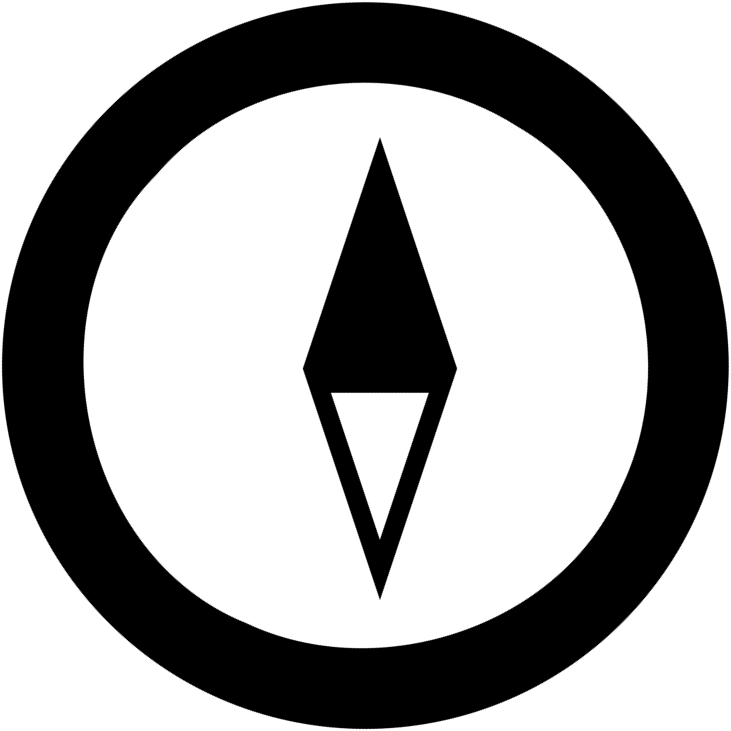
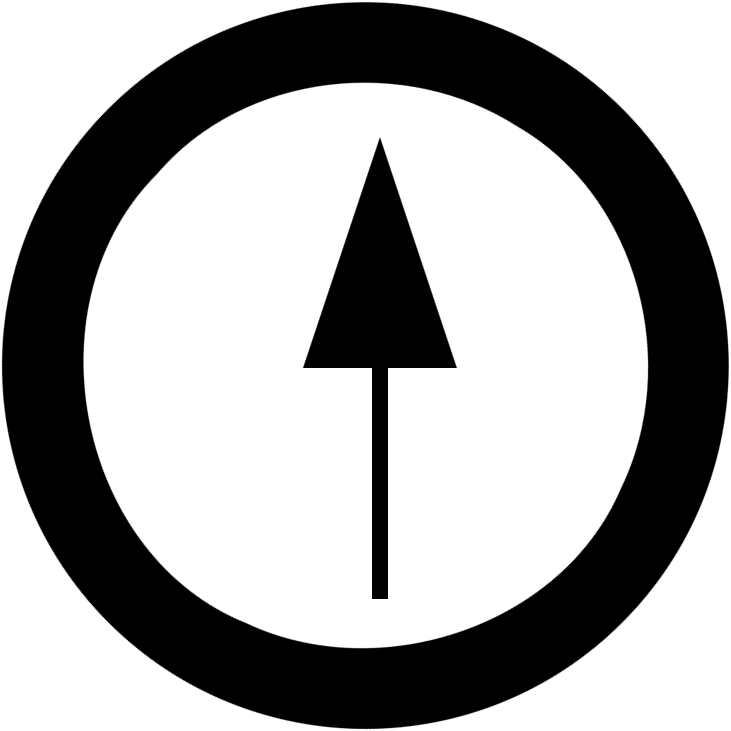
Polish compass

Changed region(s): [[0.4213, 0.4815, 0.632, 0.8427]]

diff --git a/src/components/compass.rs b/src/components/compass.rs
@@ -44,31 +44,33 @@ impl Component for Compass {
 
 impl Renderable<Compass> for Compass {
     fn view(&self) -> Html<Self> {
-        if let Some(exit_hint) = self.maze_exit_hint {
-            let direction = exit_hint.direction.long_name();
-            let angle = exit_hint.direction.angle_deg(); // clockwise
-            let rotate_style = format!(
-                "transform: rotate({}deg); \
+        let compass_style = "float: right; margin: 10px;";
+        let (direction, angle, distance) = match self.maze_exit_hint {
+            Some(exit_hint) => (
+                exit_hint.direction.long_name(),
+                exit_hint.direction.angle_deg(), // clockwise
+                Some(exit_hint.distance),
+            ),
+            None => ("?", 0., None)
+        };
+        let rotate_style = format!(
+            "transform: rotate({}deg); \
                  width:100px; \
                  height:100px;",
-                angle
-            );
-            html! {
-                <div class="compass" style="float: right">
-                    <img src="compass.png" style=rotate_style />
-                    <p>
-                        { format!("Direction: {}", direction) }
-                        <br />
-                        { format!("Distance: {}", exit_hint.distance) }
-                    </p>
-                </div>
-            }
-        } else {
-            html! {
-                <div id="compass">
-                    <p>{ "No compass" }</p>
-                </div>
-            }
+            angle
+        );
+        let distance_str = distance
+            .map(|d| format!("{}", d))
+            .unwrap_or("?".to_string());
+        html! {
+            <div class="compass" style=compass_style>
+                <img src="compass.png" style=rotate_style />
+                <p>
+                    { "Direction: "}{ direction }
+                    <br />
+                    { "Distance: "}{ distance_str }
+                </p>
+            </div>
         }
     }
 }
